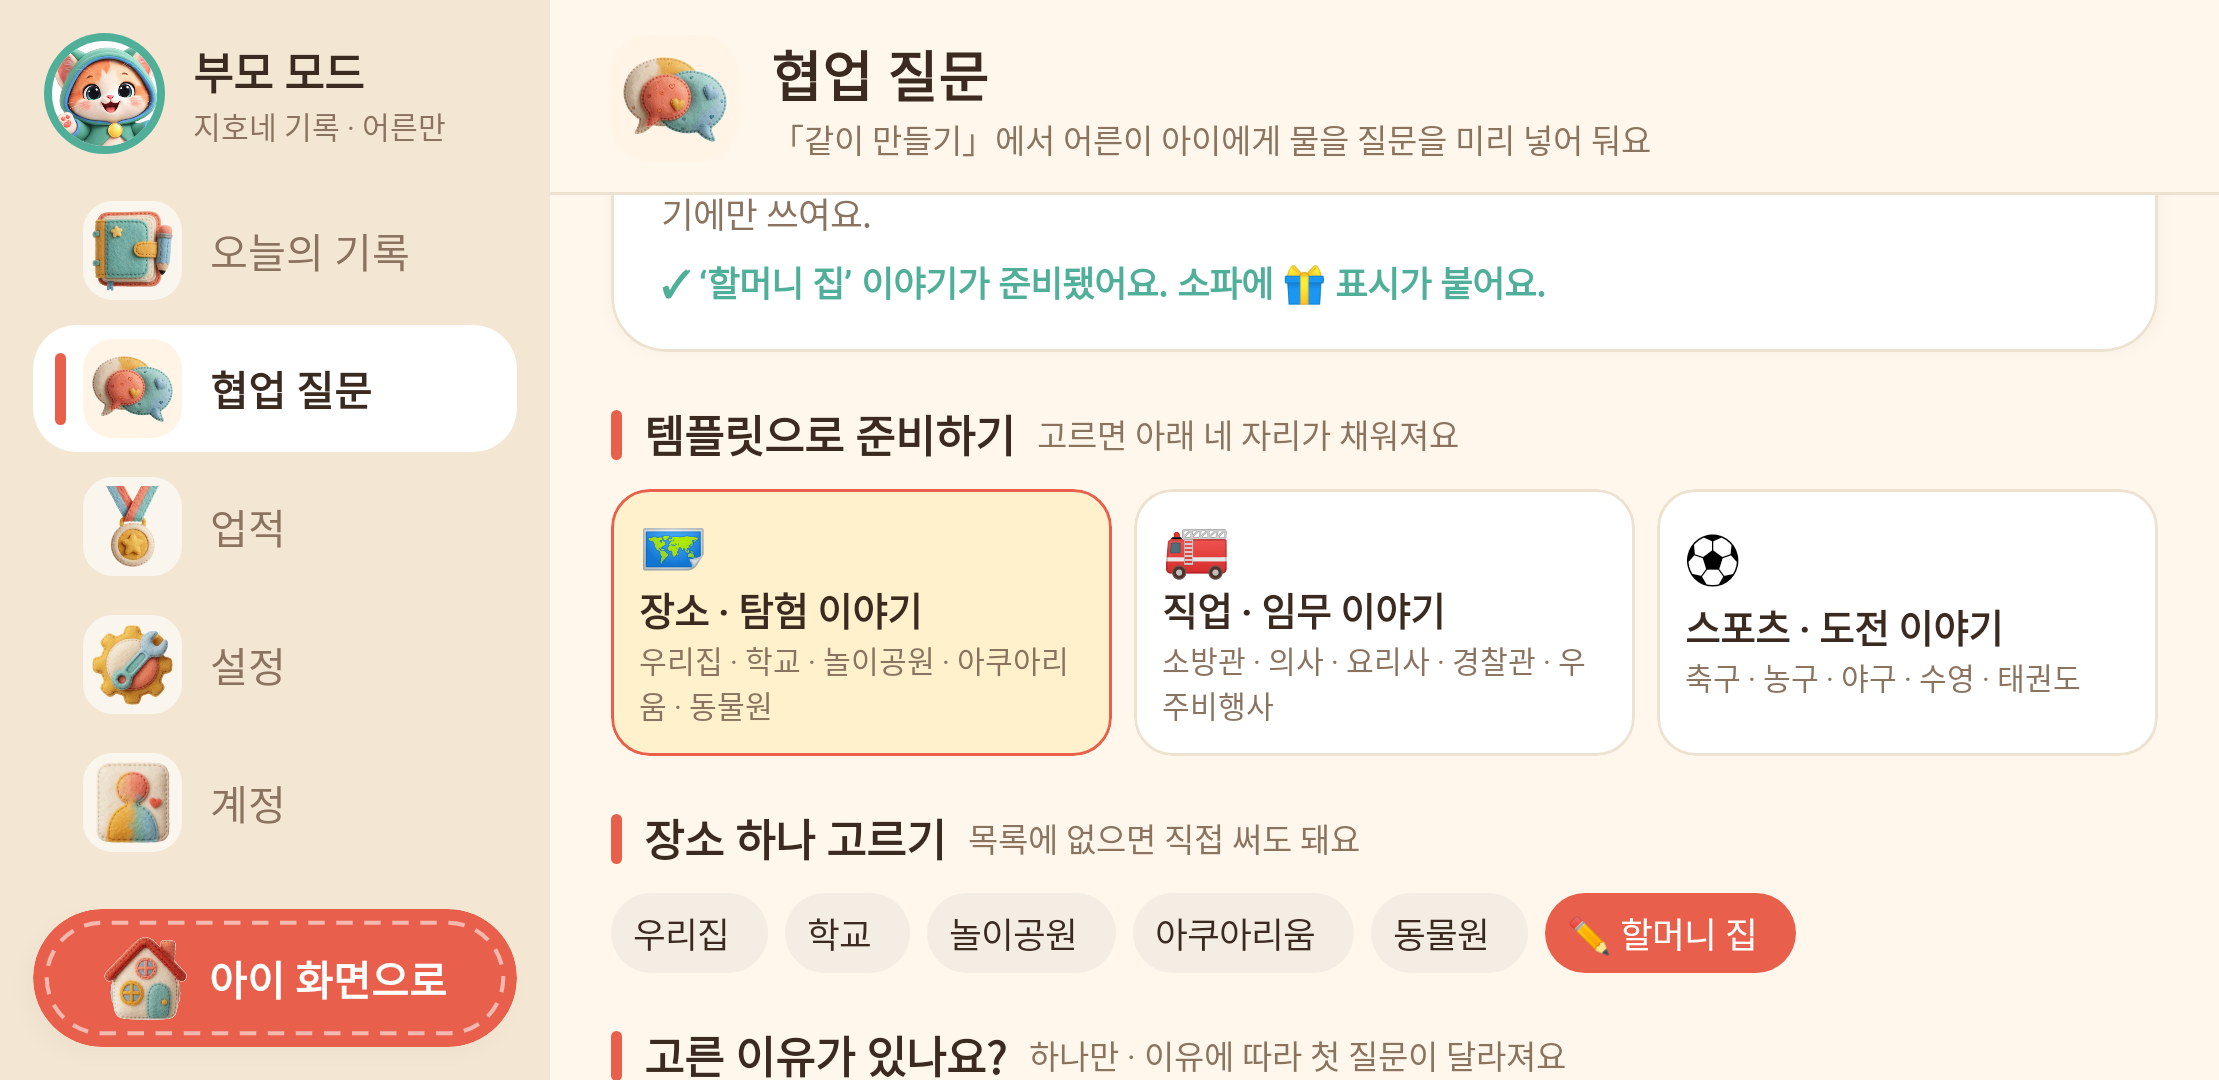
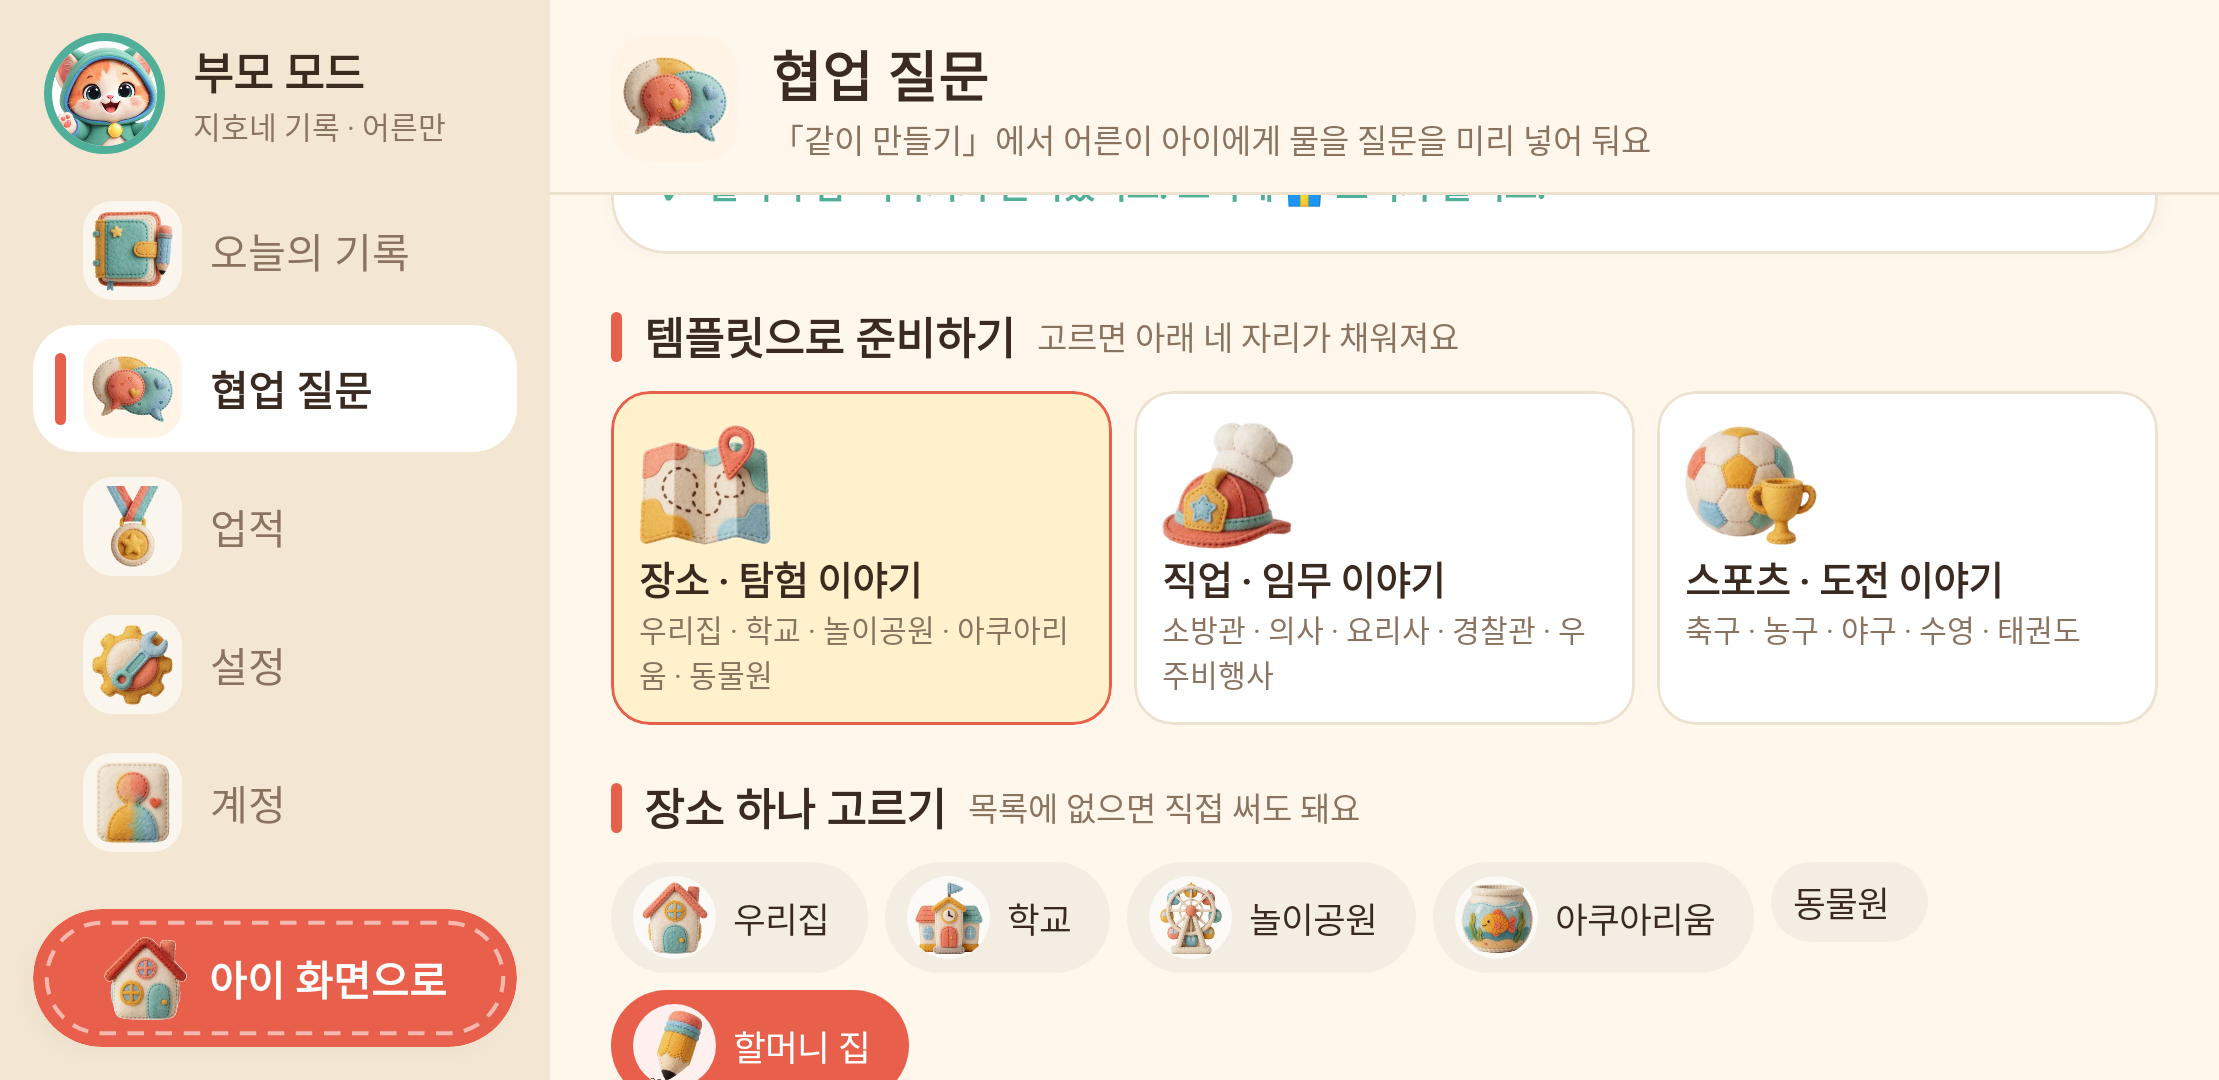
feat(coop): felt art for the template cards, items and reasons
- 21 ComfyUI felt pictures (tools/gen_coop.py, same pipeline and style as the room):
  kind cards (map / helmet + chef hat / ball + cup), 14 items, the typed-in pencil,
  and the three reasons (ticket / calendar / heart)
- cards and chips already fall back to emoji or text, so the zoo keeps its text chip
  until its picture is redone (the fence broke apart in background removal; prompt changed)
- baselines for the co-op tab re-recorded with the pictures

Claude-Session: https://claude.ai/code/session_01BdTKgJUkpodkMUqqCFayY8

diff --git a/android/tools/gen_coop.py b/android/tools/gen_coop.py
@@ -22,7 +22,7 @@ JOBS = {
     "coop_el_school": "a cute small felt school building with a clock on the front and a little flag on top, ",
     "coop_el_park": "a cute felt ferris wheel with colorful pastel cabins, ",
     "coop_el_aquarium": "a cute round felt fish bowl with a smiling orange fish and green seaweed inside, ",
-    "coop_el_zoo": "a cute felt giraffe head and neck peeking over a small wooden fence, ",
+    "coop_el_zoo": "a cute felt baby giraffe sitting down, whole body visible, with a small green felt leaf in its mouth, ",  # 울타리를 넣으면 배경 제거가 울타리를 조각내서 뺐다
     # 직업
     "coop_el_firefighter": "a cute felt red firefighter helmet with a golden badge, ",
     "coop_el_doctor": "a cute felt doctor stethoscope in teal with a little red cross badge, ",
